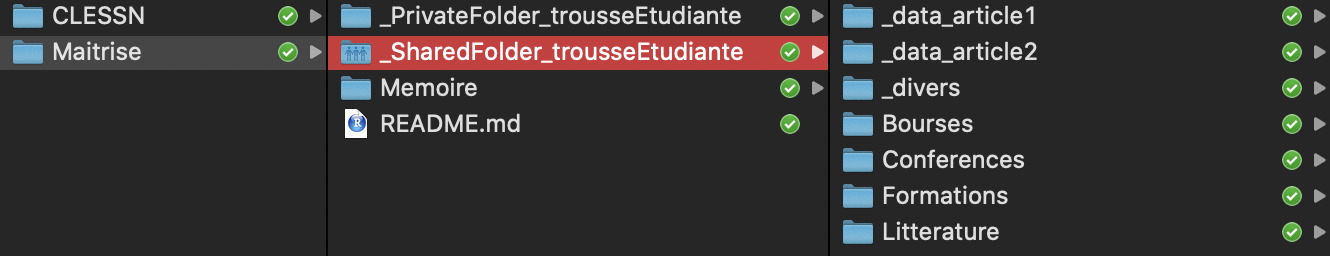
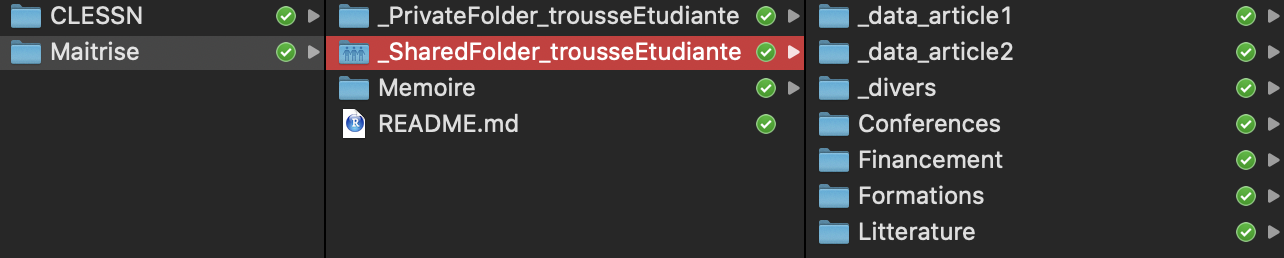
ajout des idées de Cath et Yannick

diff --git a/README.md b/README.md
@@ -1,4 +1,4 @@
-# Cher(chère) étudiant(e)
+# Cher(ère) étudiant(e)
 
 ## Supervision par Yannick Dufresne, Université Laval
 
@@ -7,7 +7,7 @@ Le fichier README (que vous consultez actuellement) permet de détailler tous le
 
 N'ayez crainte, ça finira rapidement par être très simple!
 
-À noter: pour le moment, vous constaterez que ce repository et le dropbox associés sont plutôt adaptés aux études à la maitrise. Il n'empêche que toute l'information sera pertinente à votre entrée dans notre équipe, peu importe votre niveau universitaire. Étudiant.es au bac, le repository n'est pas nécessaire à télécharger (il contient surtout des modèles pour le mémoire). **Il est cependant important de bien lire ce fichier README**. N'hésitez pas non plus à réfléchir à la logique des différents dossiers, voire à les adapter en fonction de vos propres besoins!
+À noter: pour le moment, vous constaterez que ce repository et le dropbox associés sont plutôt adaptés aux études à la maitrise. Il n'empêche que toute l'information sera pertinente à votre entrée dans notre équipe, peu importe votre niveau universitaire. Étudiant.es au baccalauréat, le repository n'est pas nécessaire à télécharger (il contient surtout des modèles pour le mémoire). **Il est cependant important de bien lire ce fichier README**. N'hésitez pas non plus à réfléchir à la logique des différents dossiers, voire à les adapter en fonction de vos propres besoins!
 
 ### D'abord, voici les 10 premières étapes à suivre au départ d’une supervision :
 
@@ -27,10 +27,30 @@ Pour davantage d'informations sur les installations, vous pouvez consulter l'ong
 C'est fait? Bravo! Le plus dur est passé!
 Maintenant, concentrons-nous sur la logique de vos nouveaux dossiers.
 
+### La logique du dossier Dropbox (_SharedFolder_trousseEtudiante), fichier par fichier :
+
+1. **_data_article1** (ici, vous entreposerez les données de votre article 1)
+2. **_data_article2** (même chose ici, pour l'article 2)
+3. **_divers** (on vous a déjà mis les cheat sheets pertinentes, des guides de rédaction et les recueils créés par la CLESSN pour faciliter l'apprentissage de méthodologies)
+  - *CheatSheets*
+  - *Outils*
+  - *Recueils*
+4. **Financement** (il est essentiel d'appliquer pour l'obtention de bourses d'études! Vous trouverez ici les plus importantes et leurs instructions)
+5. **Conferences** (vous ferez -- ou participerez -- sans doute à plusieurs conférences pendant vos études. Voici les plus importantes)
+6. **Formations** (vous serez invité à participer à l'école d'été méthodologique ICPSR de l'Université du Michigan! Il s'agit d'un excellent complément à votre formation. Les cours en ligne de Datacamp serviront aussi à solidifier votre base en R)
+  - *Datacamp*
+  - *ICPSR*
+7. **Litterature** (ici, vous entreposerez votre fichier Bibtex contenant toute la bibliographie de votre mémoire. Commencez à la nourrir dès maintenant!)
+  - *bibfile.bib*
+  
+![](Memoire/_divers/pathShared.png)
+
 ### La logique du dossier Github (trousse_etudiante), fichier par fichier:
 
+Vous constaterez que certains des dossiers présentés ci-dessous ne sont pas présents dans le repo. Ce sera donc à vous de les créer! La raison est fort simple: dans Git, on ne peut pas «commit» des dossiers vides, car Git ne sauvegarde pas réellement les dossiers, mais seulement les fichiers. À vous, par exemple, de créer le dossier *article1* et son contenu, si vous choisissez de réaliser un mémoire par article (plus de détails là-dessus dans la section suivante).
+
 1. **Memoire** (c'est dans ce dossier que vous pourrez prochainement commencer la rédaction de votre mémoire)
-  - *_divers* (sert à entreposer tous les divers éléments intéressants ou nécessaires à votre mémoire, **mais pas les données**)
+  - *_divers* (sert à entreposer tous les divers éléments intéressants ou nécessaires à votre mémoire, **mais pas les données**. Vous pouvez supprimer les images qui s'y trouvent pour le README)
   - *article1* (ici vous procéderez à l'analyse et à la rédaction de votre 1er article)
     - _graphs (il s'agit d'une exception, mais ici se trouveront vos graphiques finaux en format png à être insérés dans votre article)
     - code (ici se retrouvera votre fichier R)
@@ -46,23 +66,11 @@ Maintenant, concentrons-nous sur la logique de vos nouveaux dossiers.
 
 ![](Memoire/_divers/pathMemoire.png)
 
-### La logique du dossier Dropbox (_SharedFolder_trousseEtudiante), fichier par fichier :
+### Mémoire/thèse
 
-1. **_data_article1** (ici, vous entreposerez les données de votre article 1)
-2. **_data_article2** (même chose ici, pour l'article 2)
-3. **_divers** (on vous a déjà mis les cheat sheets pertinentes, des guides de rédaction et les recueils créés par la CLESSN pour faciliter l'apprentissage de méthodologies)
-  - *CheatSheets*
-  - *Outils*
-  - *Recueils*
-4. **Bourses** (il est essentiel d'appliquer pour l'obtention de bourses d'études! Vous trouverez ici les plus importantes et leurs instructions)
-5. **Conferences** (vous ferez -- ou participerez -- sans doute à plusieurs conférences pendant vos études. Voici les plus importantes)
-6. **Formations** (vous serez invité à participer à l'école d'été méthodologique ICPSR de l'Université du Michigan! Il s'agit d'un excellent complément à votre formation. Les cours en ligne de Datacamp serviront aussi à solidifier votre base en R)
-  - *Datacamp*
-  - *ICPSR*
-7. **Litterature** (ici, vous entreposerez votre fichier Bibtex contenant toute la bibliographie de votre mémoire. Commencez à la nourrir dès maintenant!)
-  - *bibfile.bib*
-  
-![](Memoire/_divers/pathShared.png)
+Les étudiants seront sans doute heureux d'apprendre qu'il est désormais possible de réaliser un mémoire et une thèse par articles (généralement 2 articles à la maitrise et 3 au doctorat). À la maitrise, il n'est pas obligatoire d'avoir soumis les articles à une publication scientifique. Au doctorat, les articles doivent être soumis, mais pas nécessairement acceptés.
+
+Toute l'information pertinente au sujet de votre rédaction peut être obtenue ici: https://www.fesp.ulaval.ca/etudiants-actuels/rediger-votre-memoire-ou-these
 
 ### _SharedFolder et _PrivateFolder
 
@@ -75,7 +83,7 @@ De plus, nous avons aussi pensé le fichier .gitignore pour qu'il ignore les dos
 
 Git n'aime pas que l'on entrepose des informations trop lourdes sur ses serveurs... Des repo trop costauds seront aussi plus long à télécharger. C'est une autre bonne raison pour laquelle vos données doivent se trouver dans votre _SharedFolder (qui est ignoré par Git!). Les fichiers pdf, png, jpg (et autres images) sont aussi préférablement entreposés dans le _SharedFolder (sauf exception). La taille de fichier maximale recommandée par GitHub est de 50 MB.
 
-Pour bien saisir la logique de Git et de Github, nous vous conseillons de visionner les tutoriels *Git and GitHub for Poets* de la chaine Youtube The Coding Train (voici le lien du premier vidéo: https://www.youtube.com/watch?v=BCQHnlnPusY&t=3s). Ce genre de vidéo vous apprendra notamment à minimiser le risque d'erreurs sur Git. Notez bien la formule magique à inscrire dans votre terminal:
+Pour bien saisir la logique de Git et de Github, nous vous conseillons de visionner les tutoriels *Git and GitHub for Poets* de la chaine YouTube The Coding Train (voici le lien du premier vidéo: https://www.youtube.com/watch?v=BCQHnlnPusY&t=3s). Ce genre de vidéo vous apprendra notamment à minimiser le risque d'erreurs sur Git. Notez bien la formule magique à inscrire dans votre terminal:
 
 1. git add -A
 2. git commit -m "description du commit"
@@ -86,7 +94,7 @@ Quand on fait un pull après un certain temps dans un repo, il est aussi importa
 
 Important: malheureusement, apprendre une formule magique n'est jamais une solution miracle. Il est plutôt nécessaire de comprendre les commandes et de pouvoir faire ce que l'on veut peu importe les circonstances. Dans certains cas, la formule ci-dessus pourrait être inappropriée!
 
-Pour en savoir plus, je vous invite aussi à compléter le cours Datacamp *Introduction to Git*.
+Pour en savoir plus, je vous invite aussi à consulter la «cheat sheet» sur Git qui est dans votre _SharedFolder -> _divers -> CheatSheets. Vous pouvez aussi compléter le cours Datacamp *Introduction to Git*.
 
 ### Datacamp
 
@@ -108,17 +116,19 @@ Vous pouvez aussi déjà vous lancer dans la lecture de *KKV*. **Designing Socia
   
 ### Rencontres
   
-Vous n'avez jamais codé en R et vous avez tapé "Mark Down" dans Google en pensant qu'il s'agissait d'un grand scientifique anglais? Aucune crainte! Vous êtes au bon endroit pour vous initier et rapidement développer une expertise dans les sciences sociales numériques. Plusieurs étudiant.es de l'équipe n'avaient jamais codé avant leur arrivée! Pour apprendre rapidement, le mieux est de commencer maintenant, et d'en faire un peu tous les jours. Quelques pages de KKV, une vidéo YouTube, un cours de Datacamp, et surtout, la participation aux scrums! Les scrums permettent à l'équipe de se rassembler et de faire le point sur l'avancement des différents projets. Il y en a 3 par semaine, en plus du *Mardi métho* et du *Jeudi 3P*. Vous êtes bien sûr invité à vous joindre à nous en personne ou via Slack (à distance, les rencontres se font dans la chaine **00_général**). Voici les heures de rencontres:
+Vous n'avez jamais codé en R et vous avez tapé "Mark Down" dans Google en pensant qu'il s'agissait d'un grand scientifique anglais? Aucune crainte! Vous êtes au bon endroit pour vous initier et rapidement développer une expertise dans les sciences sociales numériques. Plusieurs étudiant.es de l'équipe n'avaient jamais codé avant leur arrivée! Pour apprendre rapidement, le mieux est de commencer maintenant, et d'en faire un peu tous les jours. Quelques pages de KKV, une vidéo YouTube, un cours de Datacamp, et surtout, la participation aux scrums! 
+
+À la chaire, nous opérons un virage organisationnel calqué sur les «Méthodes agiles». Ces méthodes permettent l'optimisation du temps et des ressources, afin de permettre un travail d'équipe efficace. Bien que nous ne respectons pas encore l'ensemble des techniques des méthodes agiles, plusieurs sont déjà bien implantées. Par exemple, chaque projet est dirigé par un «chargé de projet», qui s'occupe de suivre l'avancement des différentes tâches. Les «scrums» sont des rencontres rapides qui permettent à l'ensemble de l'équipe de faire le point. Il y en a 3 par semaine, en plus du *Mardi métho* et du *Jeudi 3P*. Vous êtes bien sûr invité à vous joindre à nous en personne ou via Slack (à distance, les rencontres se font dans la chaine **00_général**). Voici les heures de scrums et de rencontres:
 
   - Mardi, 15h30-16h30 (*Mardi métho*, on fait des lectures et on jase méthodologie);
-  - Mardi, 16h30-17h15 (scrum long de 45 minutes, pour suivre l'avancement des projets);
-  - Jeudi, 15h30-16h30 (*Jeudi 3P*, on présente un ou des projets plus en détail, et on les commente en équipe);
+  - Mardi, 16h30-17h15 (scrum long de 45 minutes, pour suivre plus en détails l'avancement des projets);
+  - Jeudi, 15h30-16h30 (*Jeudi 3P*, on présente un ou deux projets, et on les commente en équipe);
   - Jeudi, 16h30-16h45 (scrum court de 15 minutes);
   - Dimanche, 16h30-16h45 (scrum court de 15 minutes).
   
 ### Slack
   
-Si vous êtes à distance, les rencontres (scrums) se font aussi sur Slack (bien qu'il soit préférable d'être à l'Université le plus régulièrement possible). D'ailleurs, Slack est notre outil de communication principal. Déjà, vous pouvez demander d'être ajouté aux chaines suivantes:
+Si vous êtes à distance, les rencontres (scrums) se font aussi sur Slack (bien qu'il soit préférable d'être à l'Université le plus régulièrement possible). D'ailleurs, Slack est notre outil de communication et d'archivage principal. Déjà, vous pouvez demander d'être ajouté aux chaines suivantes:
 
   - 00_calendrier (pour recevoir les notifications du Google Calendar de la CLESSN);
   - 00_communication (pour la communication de la chaire);
@@ -144,7 +154,7 @@ C'est au travers de Slack que nous discutons des différents projets en cours. V
 2. RADAR+: construction d'un outil pour entreposer et analyser les Unes des médias canadiens;
 3. Polimètre: conception d'un algorithme de pondération selon l'importance des promesses électorales;
 4. Livre CLESSN: écriture d'un livre d'introduction aux sciences sociales numériques;
-5. Build-a-Voter: déploiement d'une plateforme en ligne où l'on peut construire un électeur selon une multitudes de variables socio-démographiques;
+5. Build-a-Voter: déploiement d'une plateforme en ligne où l'on peut construire un électeur selon une multitudes de variables socio-démographiques et de «lifestyle» (mode de vie);
 6. Global-ES: nettoyage et uniformisation des études électorales de plusieurs pays;
 7. Boussole Japon: lancement d'une boussole électorale au Japon;
 8. Entre-voix: cueillette des textes des débats législatifs disponibles sur les sites web des parlements;
@@ -152,38 +162,38 @@ C'est au travers de Slack que nous discutons des différents projets en cours. V
 10. Lobbying: analyse de réseau avec la base de données du registre des lobbyistes;
 11. Synopsis STM: élaboration de graphiques sur le STM pour un projet de la firme de marketing Synopsis;
 12. Tact conseil: développement d'un algorithme semi-supervisé pour l'analyse textuelle et production de graphiques.
-
   
 ### ICPSR
 
 Si je vous supervise, c'est que vous acceptez d'aller à ICPSR Summer Program de l'Université du Michigan. Il s'agit d'une école d'été (parmi les meilleures au monde) lors de laquelle vous pourrez approfondir vos connaissances en méthodologie quantitative. La participation à cette école constitue un rite de passage pour tous mes étudiants depuis 2017! Pour toutes les informations, voir le site web: https://www.icpsr.umich.edu/icpsrweb/sumprog/. Mais nous en parlerons assurément ensemble!
 
-### Bourses (et groupe de recherche)
+### Financement (et groupe de recherche)
 
 Pour financer votre participation à ICPSR, voire pour financer vos études en général, il existe de nombreuses possibilités de bourses. Voici les plus populaires. À noter que les dates d'inscription sont offertes à titre informatif, mais celles-ci peuvent être modifiées d'année en année.
 
-1. FRQSC (9 octobre): Le Fond de recherche du Québec Société et Culture est l'équivalent provincial du CRSH. Il offre 17 500$ pour les études à la maitrise.
+1. FRQSC (~9 octobre): Le Fond de recherche du Québec Société et Culture est l'équivalent provincial du CRSH. Il offre 17 500$ pour les études à la maitrise.
 https://www.sshrc-crsh.gc.ca/funding-financement/programs-programmes/fellowships/cgs_masters-besc_maitrise-fra.aspx
-2. CRSH (13 décembre): Le Conseil de recherches en sciences humaines du Canada offre chaque année une possibilité de financement de 17 500$ pour les études à la maitrise. Il s'agit de la plus haute bourse de votre champ d'études, et ainsi de la plus prestigieuse. Mais elle reste à portée de tout bon dossier. https://www.sshrc-crsh.gc.ca/funding-financement/programs-programmes/fellowships/cgs_masters-besc_maitrise-fra.aspx
-3. ICPSR (31 mars): Plusieurs bourses sont offertes directement par ICPSR. Ça vaut la peine de tenter sa chance!
+2. CRSH (~13 décembre): Le Conseil de recherches en sciences humaines du Canada offre chaque année une possibilité de financement de 17 500$ pour les études à la maitrise. Il s'agit de la plus haute bourse de votre champ d'études, et ainsi de la plus prestigieuse. Mais elle reste à portée de tout bon dossier. https://www.sshrc-crsh.gc.ca/funding-financement/programs-programmes/fellowships/cgs_masters-besc_maitrise-fra.aspx
+3. ICPSR (~31 mars): Plusieurs bourses sont offertes directement par ICPSR. Ça vaut la peine de tenter sa chance!
 https://www.icpsr.umich.edu/icpsrweb/content/sumprog/scholarships/index.html
 
 Et voici les opportunités de financement des groupes de recherche auxquels vous faites maintenant partie:
 
-4. OBVIA (30 août): L'Observatoire international sur les impacts sociétaux de l'IA et du numérique organise chaque année un concours de bourse de 15 000$ pour la réalisation d'un mémoire en lien avec leurs objectifs.
+4. OBVIA (~30 août): L'Observatoire international sur les impacts sociétaux de l'IA et du numérique organise chaque année un concours de bourse de 15 000$ pour la réalisation d'un mémoire en lien avec leurs objectifs.
 https://observatoire-ia.ulaval.ca/programmes-de-bourses-dappui-a-la-releve-de-lobvia/
-5. CÉCD (30 septembre et 1er mars): Le Centre pour l'étude de la citoyenneté démocratique offre à tous ses membres 750\$ par année pour la présentation à l'étranger d'un article scientifique. Il est toutefois nécessaire d'indiquer au CECD avant le 30 septembre que vous comptez utiliser cette bourse (je vous conseille de le faire, même si vous ne pensez pas l'utiliser!). Aussi, le CÉCD offre 2500\$ en bourse de formation méthodologique (comme la participation à ICPSR).
+5. CÉCD (~30 septembre et ~1er mars): Le Centre pour l'étude de la citoyenneté démocratique offre à tous ses membres 750\$ par année pour la présentation à l'étranger d'un article scientifique. Il est toutefois nécessaire d'indiquer au CECD avant le 30 septembre que vous comptez utiliser cette bourse (je vous conseille de le faire, même si vous ne pensez pas l'utiliser!). Aussi, le CÉCD offre 2500\$ en bourse de formation méthodologique (comme la participation à ICPSR).
 https://csdc-cecd.ca/fr/resources/csdc-student-funding-fr/
 6. GRCP (en tout temps): Le Groupe de recherche en communication politique offre 800$ par année pour la formation méthodologique et la diffusion de vos résultats de recherche. À prendre ou à laisser!
 https://www.grcp.ulaval.ca/ressources/formulaires
-7. Département de science politique (en tout temps): Ce n'est pas un groupe de recherche, mais le département offre des bourses de 2000$ par année pour la formation méthodologique.
+7. CAPP: Plus de détails à venir.
+8. Département de science politique (en tout temps): Ce n'est pas un groupe de recherche, mais le département offre des bourses de 2000$ par année pour la formation méthodologique.
 https://repertoire.bbaf.ulaval.ca/bourse/52857/bourses-de-formations-methodologiques-hiver-2020
 
 Il existe beaucoup d'autres bourses, à vous maintenant de fouiller et à me faire part de vos trouvailles! Et assurez-vous aussi d'être ajouté à ces groupes de recherches, pour (notamment) avoir droit aux financements.
 
 ### Cheminement «normal»
 
-Sachez aussi que la Faculté des sciences sociales offre un financement de 1400\$ en trois versements pour tous les étudiants qui effectuent leur Maîtrise en science politique dans des temps considérés comme étant «normaux» par la Faculté: https://www.bourses.fss.ulaval.ca/connexion. C'est-à-dire que vous pouvez réclamer 280\$ si vous complétez l'ensemble de vos cours en 3 sessions, un autre 420\$ si votre projet de recherche est défendu avant la 4e session, et un dernier 700$ si votre mémoire est déposé avant la 6e session. Conseil d'ami: prenez en considération ces délais, mais ne laissez pas l'argent vous aveugler. Mieux vaut un bon projet bien réfléchi, même s'il est défendu la 5e session.
+Sachez aussi que la Faculté des sciences sociales offre un financement de 1400\$ en trois versements pour tous les étudiants qui effectuent leur Maîtrise en science politique dans des temps considérés comme étant «normaux» par la Faculté: https://www.bourses.fss.ulaval.ca/connexion. C'est-à-dire que vous pouvez réclamer 280\$ si vous complétez l'ensemble de vos cours en 3 sessions, un autre 420\$ si votre projet de recherche est défendu avant la 4e session, et un dernier 700$ si votre mémoire est déposé avant la 6e session. Conseil d'ami: prenez en considération ces délais, mais ne laissez pas l'argent vous aveugler. Mieux vaut un bon projet bien réfléchi, même s'il est défendu la 5e session. L'image ci-dessous est une copie du dossier d'un étudiant (qui, contrairement à vous, n'était pas au courant au début de ses études de l'existance de ce financement!).
 
 ![](Memoire/_divers/cheminementNormal.png)
 
